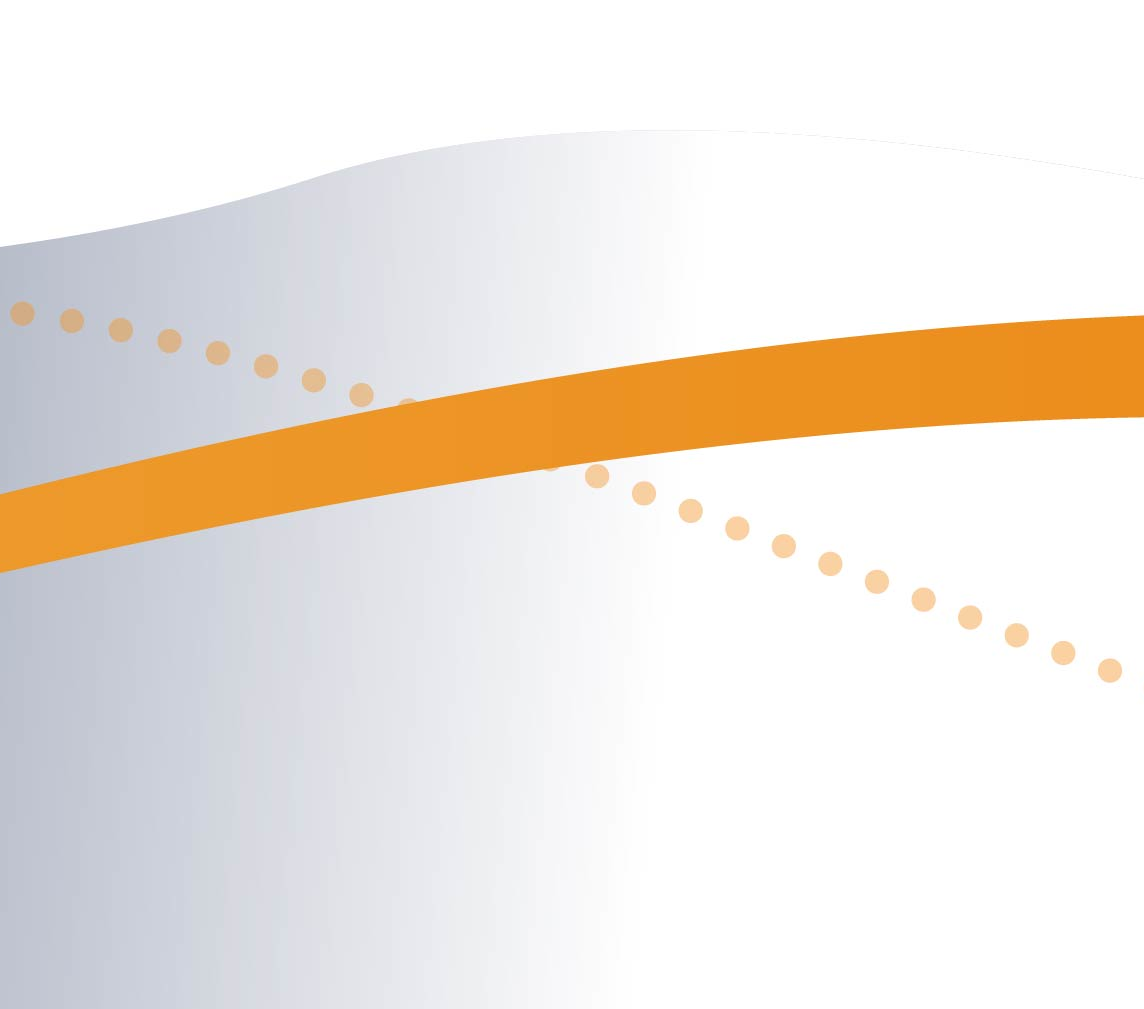
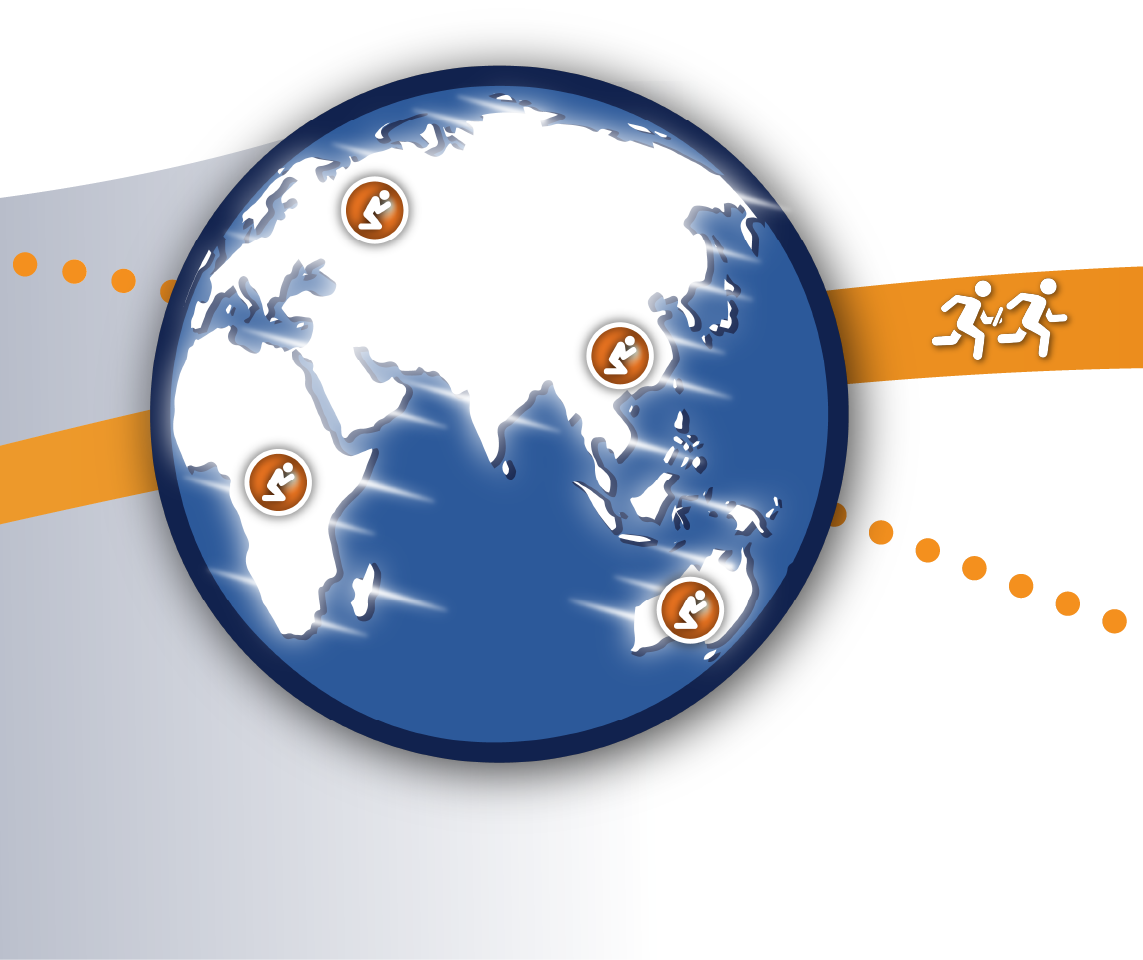
feat: change story backgrounds to include world and runners

diff --git a/pages/assets/css/basic.css b/pages/assets/css/basic.css
@@ -483,7 +483,7 @@ hr {
     padding: 0 1rem;
 }
 .time-label {
-    font-size: 0.9rem;
+    font-size: 1rem;
 }
 
 /* Carousel */
@@ -491,6 +491,10 @@ hr {
 .carousel-control-prev,
 .carousel-control-next {
     opacity: 1;
+}
+.carousel-item {
+    width: 102%;
+    margin-right: -104%;
 }
 .finish-line {
     position: absolute;
@@ -724,6 +728,7 @@ button {
     --bs-btn-font-weight: 600;
     text-shadow: 0 2px 2px rgba(0, 0, 0, 0.161);
     --bs-btn-padding-x: 1.5em;
+    --bs-btn-padding-y: 0.4em;
     box-shadow: 0 3px 6px 0 rgba(0, 0, 0, 0.161);
 }
 

diff --git a/pages/home/body.php b/pages/home/body.php
@@ -196,7 +196,9 @@
 
             <i class="icon pg-world-light icon-small d-block"></i>
             <h6 class="mb-0 mt-1">Places Covered</h6>
-            <div>progress bar</div>
+            <div>
+
+            </div>
 
             <span class="four-em font-weight-bold lh-1"><span class="current-completed"><span class="loading-spinner active"></span></span> of <span><?php echo esc_html( PG_TOTAL_STATES ) ?></span></span>
 
